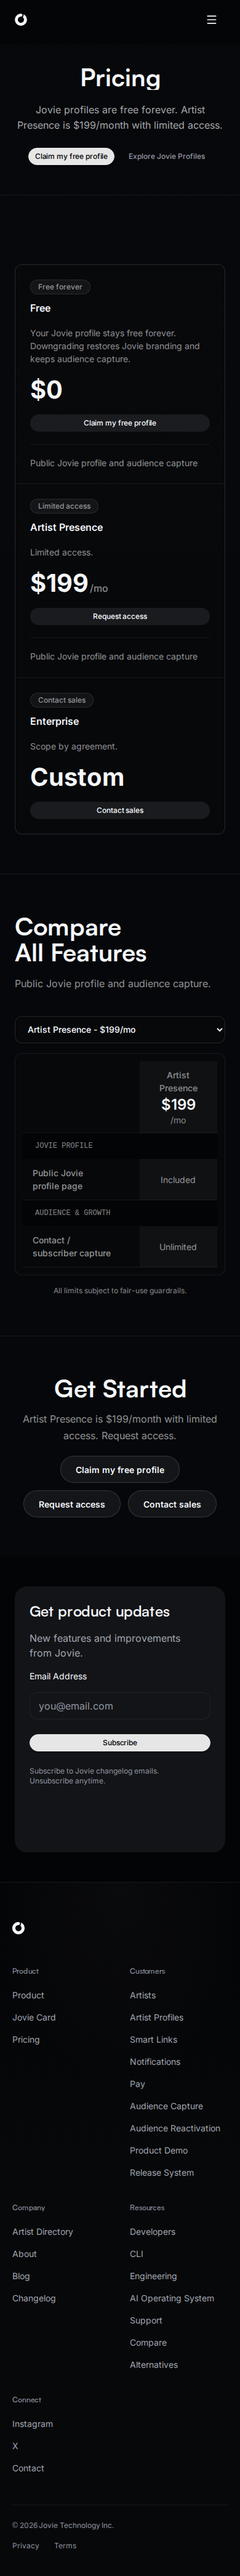
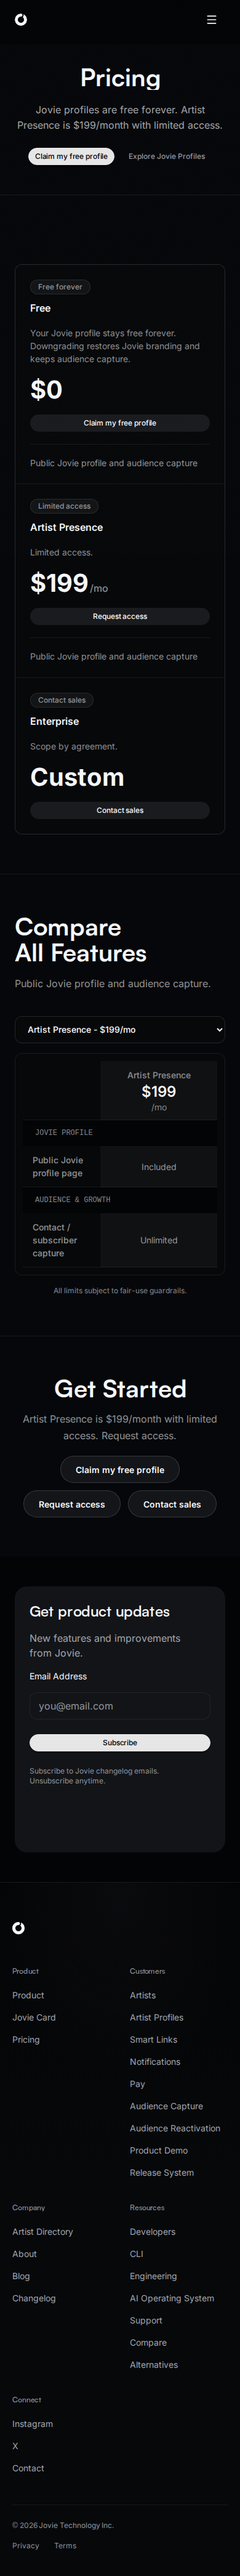
fix(design): keep pricing headings on one line and register census tests

Changed region(s): [[0.1231, 0.4351, 0.3692, 0.4973], [0.5846, 0.404, 0.8, 0.4973], [0.3692, 0.4662, 0.4308, 0.4973]]

diff --git a/apps/web/components/features/pricing/PricingComparisonChart.test.tsx b/apps/web/components/features/pricing/PricingComparisonChart.test.tsx
@@ -29,14 +29,7 @@ describe('PricingComparisonChart', () => {
       ).toHaveAttribute('scope', 'col');
       for (const header of table.querySelectorAll('thead th')) {
         expect(header).toHaveAccessibleName();
-        if (
-          table === mobileTable &&
-          header.textContent?.includes('Artist Presence')
-        ) {
-          expect(header).toHaveClass('whitespace-normal');
-        } else {
-          expect(header).toHaveClass('whitespace-nowrap');
-        }
+        expect(header).toHaveClass('whitespace-nowrap');
         expect(header).not.toHaveAttribute('data-wrap', 'feature-label');
       }
     }

diff --git a/apps/web/tests/e2e/pricing.spec.ts b/apps/web/tests/e2e/pricing.spec.ts
@@ -166,6 +166,14 @@ test.describe('Pricing Page', () => {
                 }
                 const range = document.createRange();
                 range.selectNodeContents(node);
+                if (
+                  cell.closest('thead') &&
+                  range.getClientRects().length > 1
+                ) {
+                  failures.push(
+                    `Wrapped column heading: ${node.textContent.trim()}`
+                  );
+                }
                 for (const ink of range.getClientRects()) {
                   if (
                     ink.left < bounds.left - 1 ||

diff --git a/apps/web/components/features/pricing/PricingComparisonChart.tsx b/apps/web/components/features/pricing/PricingComparisonChart.tsx
@@ -232,7 +232,7 @@ export function PricingComparisonChart() {
                 <span className='sr-only'>Feature</span>
               </th>
               <th
-                className='system-b-pricing-chart-cell system-b-pricing-chart-cell--plan whitespace-normal'
+                className='system-b-pricing-chart-cell system-b-pricing-chart-cell--plan whitespace-nowrap'
                 data-selected={selectedPlan === 'pro' ? 'true' : undefined}
               >
                 <div className='system-b-pricing-plan-name'>

diff --git a/apps/web/components/marketing/artist-profile/ArtistProfileLandingPage.css b/apps/web/components/marketing/artist-profile/ArtistProfileLandingPage.css
@@ -2156,11 +2156,6 @@ body:has(.system-b-pricing-page) .marketing-glass-header__cta:focus-visible {
   :where(.system-b-pricing-chart-cell) {
     padding: var(--space-3) var(--space-4);
   }
-
-  :where(.system-b-pricing-chart-cell--feature),
-  :where(.system-b-pricing-chart-cell--feature-heading) {
-    width: 60%;
-  }
 }
 
 /* ============================================

diff --git a/docs/screenshots/jov-8097/README.md b/docs/screenshots/jov-8097/README.md
@@ -8,7 +8,8 @@ This is local source/browser evidence, not a deployment receipt.
 
 | Evidence | Result |
 | --- | --- |
-| [Mobile, 390px](pricing-390.png) | Reviewed: full footer, wrapped comparison heading, no horizontal overflow |
+| [Mobile, 320px](pricing-320.png) | Reviewed: complete one-line plan heading, wrapped feature labels, no horizontal overflow |
+| [Mobile, 390px](pricing-390.png) | Reviewed: full footer, one-line comparison heading, no horizontal overflow |
 | [Tablet, 768px](pricing-768.png) | Reviewed: shared grid, header and full footer |
 | [Desktop, 1440px](pricing-1440.png) | Reviewed: shared shell, three plan cards, one closing CTA |
 | Pricing Playwright suite | 11 passed, including setup; selection at 320–1440px, both motion preferences, keyboard, checkout links, redirect attribution |
@@ -18,7 +19,15 @@ This is local source/browser evidence, not a deployment receipt.
 
 The footer regression test failed on the original minimal variant. The existing
 painted-text test caught Artist Presence overflow at 320px; the shared comparison
-heading now wraps. Existing tier-name, keyboard typeahead and consent-logo test
-expectations were brought into line with current offer/permission registries.
+heading now stays on one line with the shared 40% feature-column width. Existing
+tier-name, keyboard typeahead and consent-logo test expectations were brought into
+line with current offer/permission registries.
 Pricing enters [JOV-8101](https://linear.app/jovie/issue/JOV-8101) for ongoing
 perceptual refinement. Full-footer and theme flags retain their shared behavior.
+
+PR #21801 gate repair: the component assertion and a browser text-range check
+both failed on the original wrapping heading. After restoring `whitespace-nowrap`
+and removing the mobile 60% feature-column override, all 11 Pricing Playwright
+tests pass, including 320–1440px, both motion preferences, plan changes, keyboard,
+footer accessibility and stable geometry. Captures and the census digest were
+renewed after this run. The locked column-heading invariant is unchanged.

diff --git a/docs/design-system/surface-convergence.md b/docs/design-system/surface-convergence.md
@@ -77,8 +77,8 @@ and refresh evidence as each bounded migration lands. Never invent a calendar ET
 
 Pricing already uses `PublicPageShell`, `MarketingHero`, `MarketingContainer`,
 `PricingRecipeBody` and offer-truth data. JOV-8097 removes the minimal-footer
-route exception, preserves its page-owned closing CTA, and lets the shared
-comparison component wrap the longer Artist Presence heading on mobile.
+route exception and preserves its page-owned closing CTA. The shared comparison
+keeps Artist Presence on one line using the canonical 40% feature column on mobile.
 Prices, access intent, JSON-LD and checkout destinations retain their owners.
 
 The static body/footer has anonymous idle, hydrated, narrow/wide and reduced-motion
